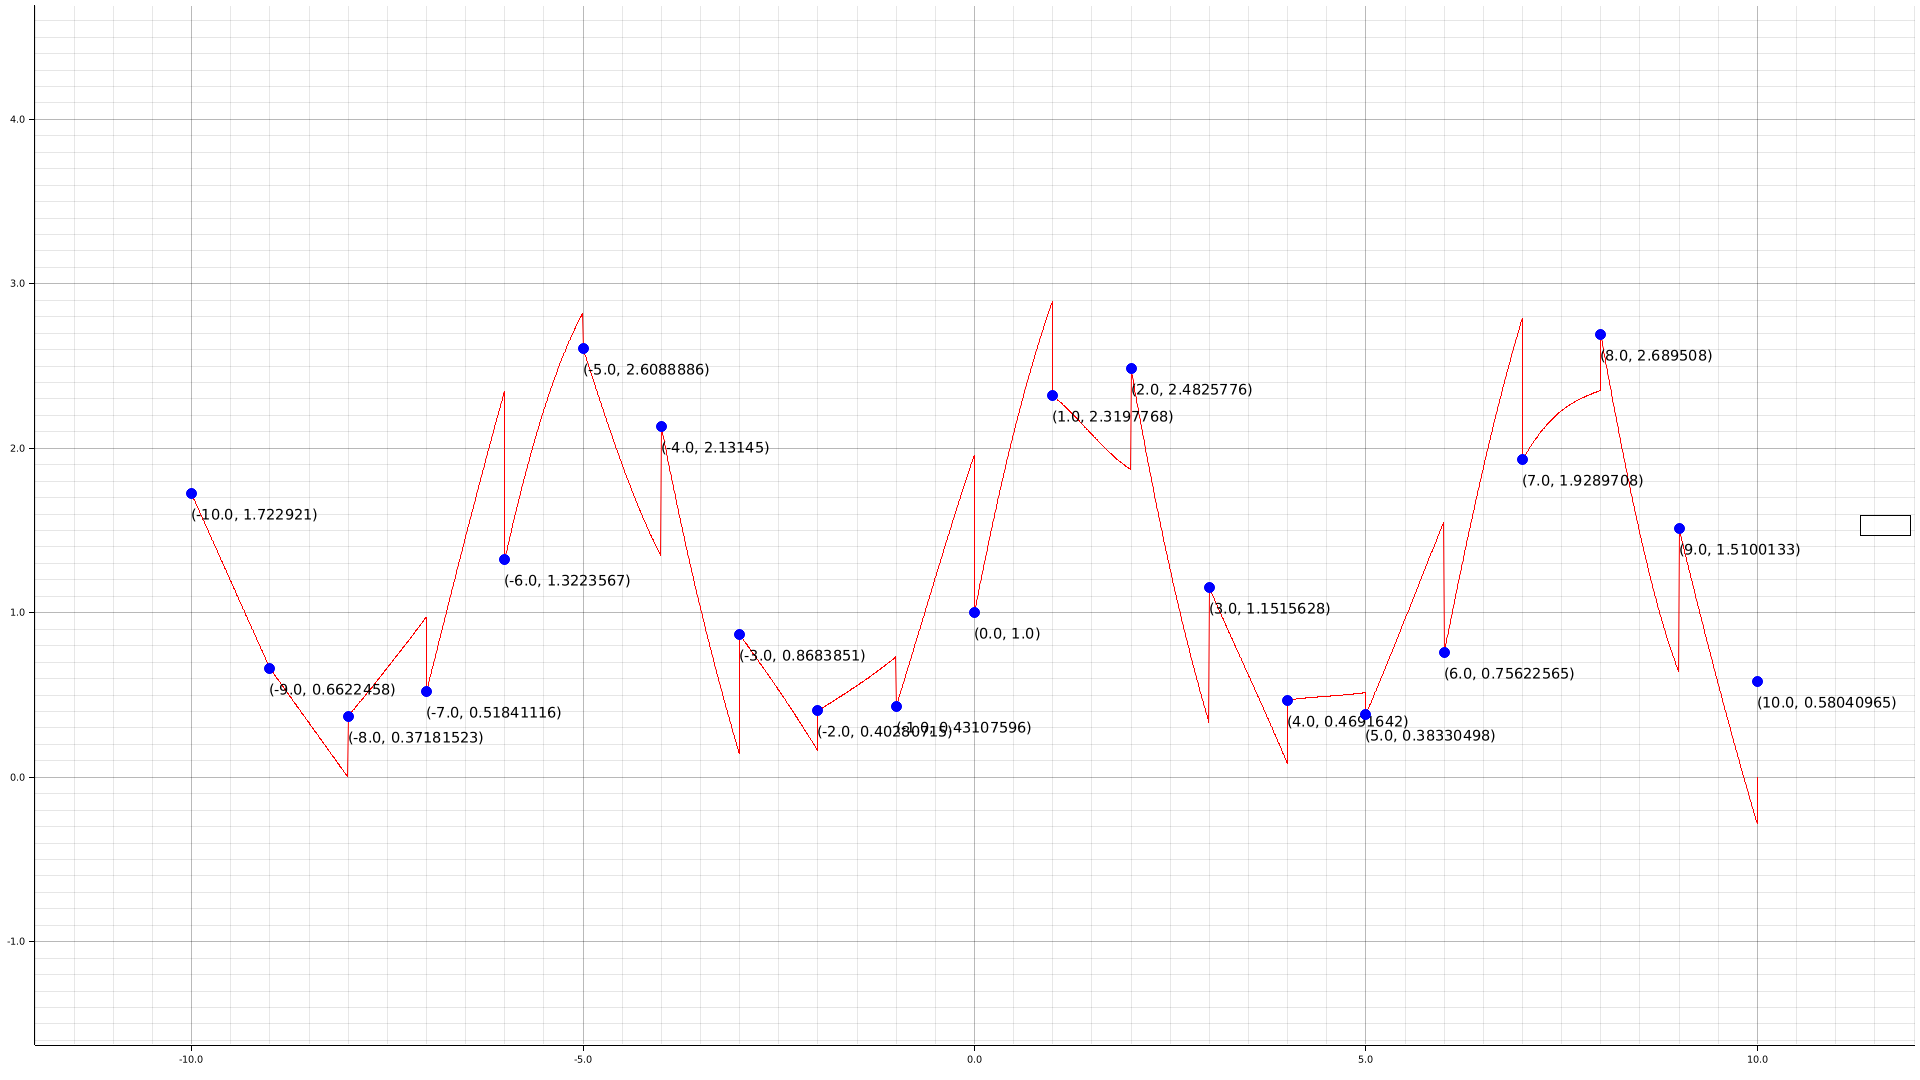
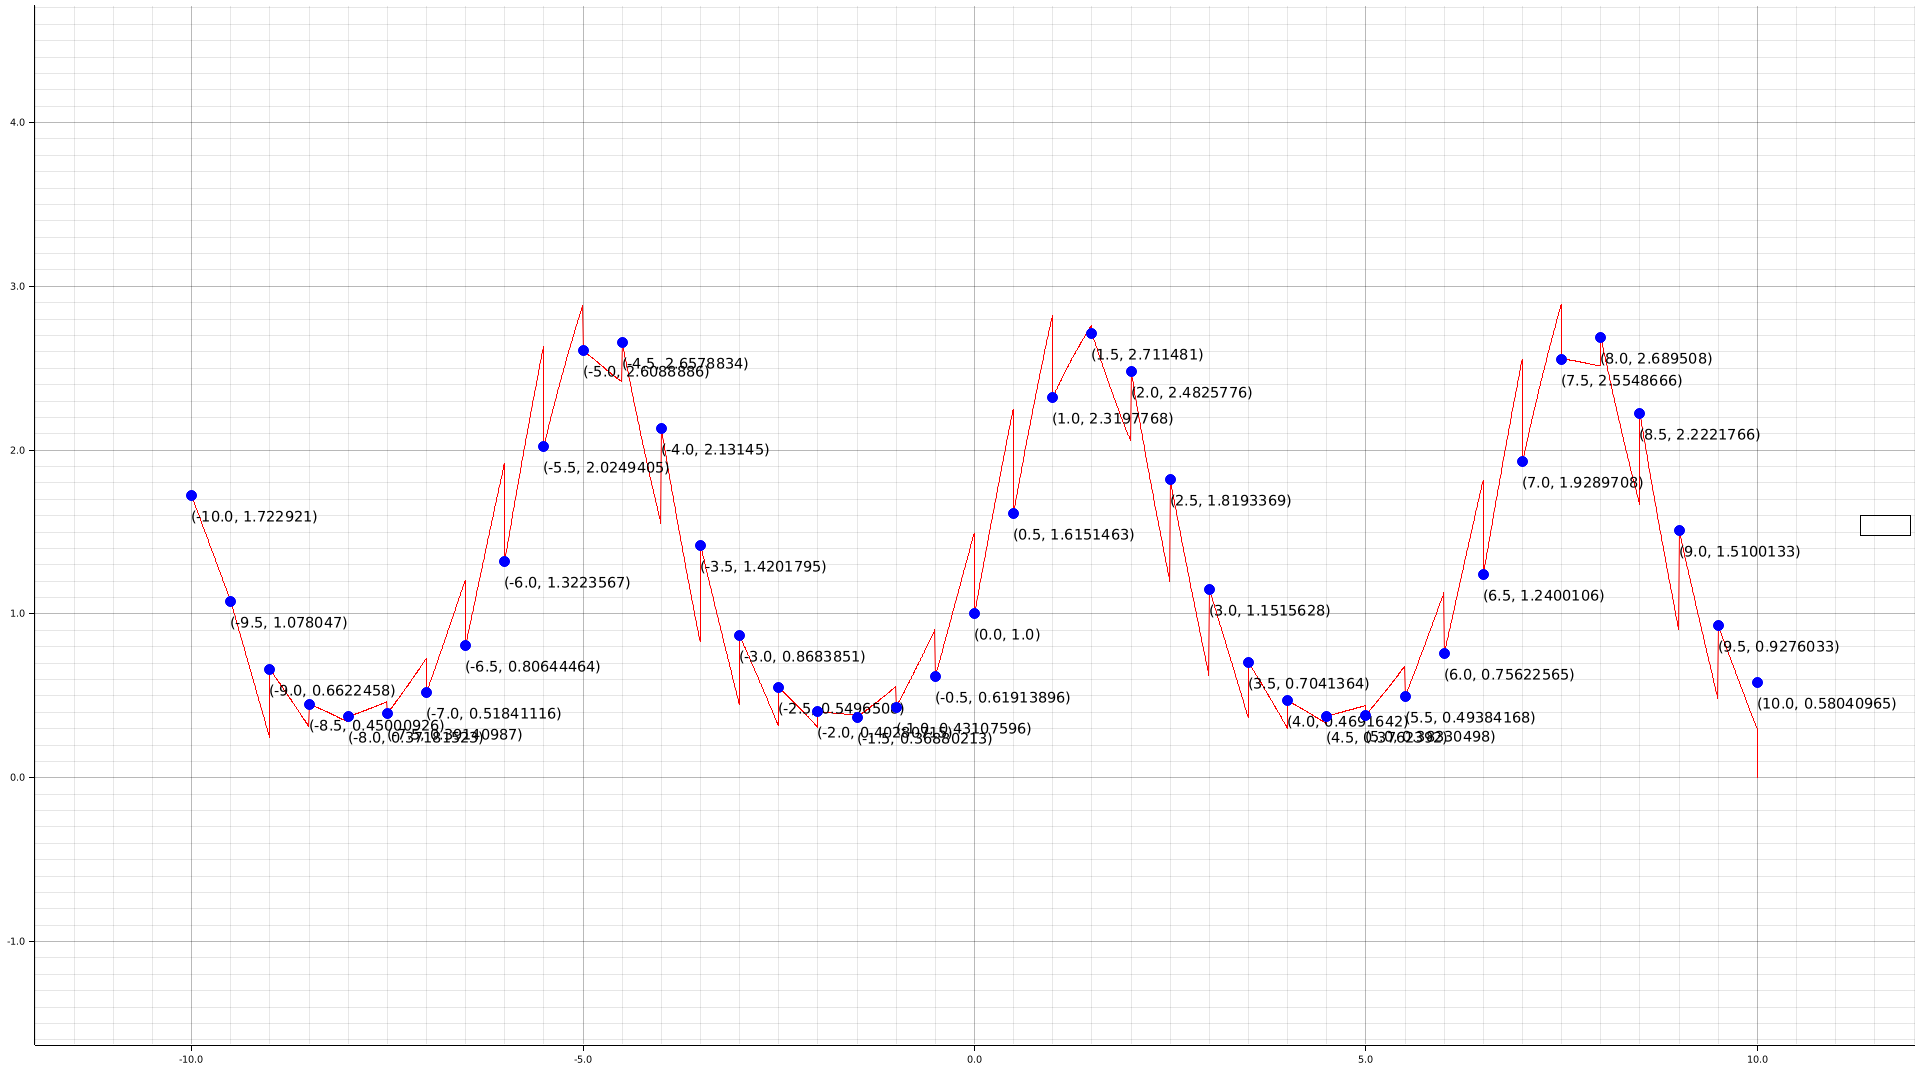
done

Changed region(s): [[0.0312, 0.0306, 1.0, 0.7028]]

diff --git a/6/main/src/main.rs b/6/main/src/main.rs
@@ -9,6 +9,7 @@ fn main() {
     println!("-> 2) y` = x * y"); // e^(x^2/2)
     println!("-> 3) y` = x / y"); //sqrt(c + x^2)
     let f: fn(f32) -> f32;
+    let f_base: fn(f64, f64) -> f64;
 
     let func_choice: usize;
     let func_choice_re: Result<usize, _> = stdin()
@@ -27,9 +28,18 @@ fn main() {
     }
 
     match func_choice {
-        1 => f = |x| x.exp() - x - 1.0,
-        2 => f = |x| (x.powi(2) / 2.0).exp(),
-        3 => f = |x| (1.0 + x).sqrt(),
+        1 => {
+            f = |x| x.exp() - x - 1.0;
+            f_base = |x, y| x + y;
+        }
+        2 => {
+            f = |x| (x.powi(2) / 2.0).exp();
+            f_base = |x, y| x * y;
+        }
+        3 => {
+            f = |x| (1.0 + x).sqrt();
+            f_base = |x, y| x / y;
+        }
         _ => {
             println!("Неверная опция выбора функции!");
             return;
@@ -90,10 +100,44 @@ fn main() {
         Ok(res) => res,
     };
 
+    println!("Выберите метод: ");
+    println!("-> 1) Супер-Эйлер"); //e^x - x - 1
+    println!("-> 2) Рунге-Кутта 4-й степени"); // e^(x^2/2)
+    println!("-> 3) Адамса"); //sqrt(c + x^2)
+
+    let method_choice = match stdin().lines().next().unwrap().unwrap().parse::<usize>() {
+        Err(_) => {
+            println!("Опция метода - не число!");
+            return;
+        }
+        Ok(res) => res,
+    };
+
     let (l, r) = (borders[0], borders[1]);
-    draw(
-        &super_euler::eval((l as f64, r as f64), y_0, h, |x, y| x + y, eps),
-        f,
-        "out/eu.png".to_string(),
-    );
+
+    match method_choice {
+        1 => draw(
+            &super_euler::eval((l as f64, r as f64), y_0, h, f_base, eps),
+            f,
+            "out/eu.png".to_string(),
+        )
+        .unwrap(),
+        2 => draw(
+            &runge::eval((l as f64, r as f64), y_0, h, f_base, eps),
+            f,
+            "out/rung.png".to_string(),
+        )
+        .unwrap(),
+        3 => draw(
+            &adams::eval((l as f64, r as f64), y_0, h, f_base, eps),
+            f,
+            "out/adm.png".to_string(),
+        )
+        .unwrap(),
+        _ => {
+            println!("Неверная опция выбора метотда!");
+            return;
+        }
+    }
+    println!("Приближённое решение построено \n->Проверьте папку с графиком");
 }

diff --git a/6/func/src/adams.rs b/6/func/src/adams.rs
@@ -6,12 +6,12 @@ pub fn eval<F: Fn(f64, f64) -> f64>(
     h: f64,
     f: F,
     eps: f64,
-) -> Vec<(f64, f64)> {
-    let mut full_ans = Vec::<(f64, f64)>::new();
+) -> Vec<(f32, f32)> {
+    let mut full_ans = Vec::<(f32, f32)>::new();
     let mut ans_h: f64 = y_0;
     let mut ans_h_2: f64 = y_0;
     let mut x_i: f64 = bord.0 + 3.0 * h;
-    full_ans.push((bord.0, y_0));
+    full_ans.push((bord.0 as f32, y_0 as f32));
 
     if (bord.1 - bord.0) / h < 3.0 {
         return full_ans;
@@ -23,8 +23,8 @@ pub fn eval<F: Fn(f64, f64) -> f64>(
     let mut f_i_2 = f_i_3 + h * f(bord.0, f_i_3);
     let mut f_i_1 = f_i_2 + h * f(bord.0 + h, f_i_2);
     let mut f_i = f_i_1 + h * f(bord.0 + h + h, f_i_1);
-    full_ans.push((bord.0 + h, f_i_2));
-    full_ans.push((bord.0 + h + h, f_i_1));
+    full_ans.push(((bord.0 + h) as f32, f_i_2 as f32));
+    full_ans.push(((bord.0 + h + h) as f32, f_i_1 as f32));
 
     while x_i < bord.1 {
         d1 = f_i - f_i_1;
@@ -40,7 +40,7 @@ pub fn eval<F: Fn(f64, f64) -> f64>(
         f_i_2 = f_i_1;
         f_i_1 = f_i;
         f_i = f(x_i, ans_h);
-        full_ans.push((x_i, ans_h));
+        full_ans.push((x_i as f32, ans_h as f32));
     }
 
     f_i_3 = y_0;

diff --git a/6/func/src/runge.rs b/6/func/src/runge.rs
@@ -4,8 +4,8 @@ pub fn eval<F: Fn(f64, f64) -> f64>(
     h: f64,
     f: F,
     eps: f64,
-) -> Vec<(f64, f64)> {
-    let mut full_ans = Vec::<(f64, f64)>::new();
+) -> Vec<(f32, f32)> {
+    let mut full_ans = Vec::<(f32, f32)>::new();
 
     let mut ans_h: f64 = y_0;
     let mut ans_h_2: f64 = y_0;
@@ -13,7 +13,7 @@ pub fn eval<F: Fn(f64, f64) -> f64>(
 
     let (mut k1, mut k2, mut k3, mut k4): (f64, f64, f64, f64);
 
-    full_ans.push((bord.0, y_0));
+    full_ans.push((bord.0 as f32, y_0 as f32));
     while x_i < bord.1 {
         k1 = h * f(x_i, ans_h);
         k2 = h * f(x_i + h / 2.0, ans_h + k1 / 2.0);
@@ -21,7 +21,7 @@ pub fn eval<F: Fn(f64, f64) -> f64>(
         k4 = h * f(x_i + h, ans_h + k3);
         ans_h = ans_h + (1.0 / 6.0) * (k1 + 2.0 * k2 + 2.0 * k3 + k4);
         x_i += h;
-        full_ans.push((bord.0, y_0));
+        full_ans.push((x_i as f32, ans_h as f32));
     }
     x_i = bord.0;
     while x_i < bord.1 {

diff --git a/6/draw/src/lib.rs b/6/draw/src/lib.rs
@@ -43,9 +43,8 @@ pub fn draw<F: Fn(f32) -> f32>(
         5,
         ShapeStyle::from(&BLUE).filled(),
         &|coord, size, style| {
-            EmptyElement::at(coord)
-                + Circle::new((0, 0), size, style)
-                + Text::new(format!("{:?}", coord), (0, 15), ("sans-serif", 18))
+            EmptyElement::at(coord) + Circle::new((0, 0), size, style)
+            // + Text::new(format!("{:?}", coord), (0, 15), ("sans-serif", 18))
         },
     ))?;
 

diff --git a/5/func/src/gauss.rs b/5/func/src/gauss.rs
@@ -48,7 +48,7 @@ impl Gauss {
             x_arr: x_arr,
         }
     }
-
+    
     pub fn eval_stir(&self, x: f32) -> f32 {
         (self.eval_first(x) + self.eval_second(x)) / 2.0
     }
